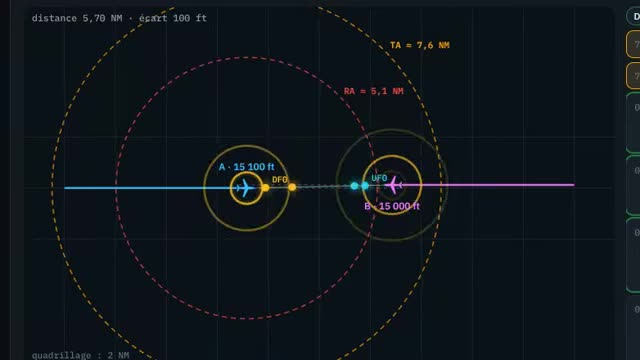
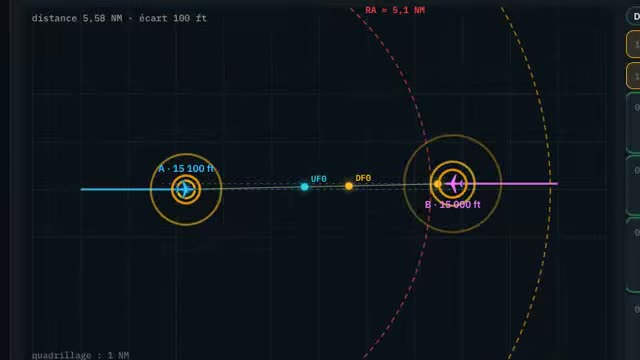
Rencontre TCAS : vitesse ×0,5, et départs rapprochés pour que la rencontre commence plus tôt
Claude-Session: https://claude.ai/code/session_01JwBhEaeajJJxZP6WL7ckMR

diff --git a/tcas-sim.js b/tcas-sim.js
@@ -32,16 +32,16 @@
   /* ---------- scénarios ---------- */
   // A : notre avion (toujours équipé TCAS II, pilote qui suit ses RA). B : l'intrus.
   const SCENARIOS = {
-    face: { nom: 'Face à face', desc: 'Deux avions en palier au FL150, sur la même route, en sens inverse.', duree: 160, sol: 0,
-      A: { x: -10, y: 0, cap: 90, vit: 300, alt: 15100, vs: 0 }, B: { x: 10, y: 0.12, cap: 270, vit: 300, alt: 15000, vs: 0 } },
-    montee: { nom: 'Croisement en montée', desc: 'B, en montée vers 13 000 ft, coupe la route de A en palier à 11 000 ft.', duree: 150, sol: 0,
-      A: { x: -8, y: 0.1, cap: 90, vit: 280, alt: 11000, vs: 0 }, B: { x: 0, y: -8, cap: 0, vit: 280, alt: 8000, vs: 1800, autorisee: 13000 } },
-    rattrapage: { nom: 'Rattrapage', desc: 'B, plus rapide, rattrape A par l’arrière, à la même altitude.', duree: 170, sol: 0,
-      A: { x: -2, y: 0, cap: 90, vit: 250, alt: 13000, vs: 0 }, B: { x: -7, y: -0.1, cap: 90, vit: 400, alt: 13050, vs: 0 } },
-    ta: { nom: 'TA seulement', desc: 'Face à face, mais 700 ft d’écart vertical : avertissement de trafic, pas de manœuvre.', duree: 160, sol: 0,
-      A: { x: -10, y: 0, cap: 90, vit: 300, alt: 15000, vs: 0 }, B: { x: 10, y: 0.3, cap: 270, vit: 300, alt: 15700, vs: 0 } },
-    approche: { nom: 'Basse altitude', desc: 'A en approche, descend vers 600 ft sol ; B traverse à 1 300 ft. Sous 1 000 ft sol (SL 2), le TCAS ne donne pas de RA : seulement un TA.', duree: 150, sol: 0,
-      A: { x: -4.5, y: 0, cap: 90, vit: 140, alt: 900, vs: -300, autorisee: 600 }, B: { x: 0.05, y: -4.5, cap: 0, vit: 140, alt: 1300, vs: 0 } },
+    face: { nom: 'Face à face', desc: 'Deux avions en palier au FL150, sur la même route, en sens inverse.', duree: 100, sol: 0,
+      A: { x: -5, y: 0, cap: 90, vit: 300, alt: 15100, vs: 0 }, B: { x: 5, y: 0.12, cap: 270, vit: 300, alt: 15000, vs: 0 } },
+    montee: { nom: 'Croisement en montée', desc: 'B, en montée vers 13 000 ft, coupe la route de A en palier à 11 000 ft.', duree: 105, sol: 0,
+      A: { x: -4.4, y: 0.1, cap: 90, vit: 280, alt: 11000, vs: 0 }, B: { x: 0, y: -4.4, cap: 0, vit: 280, alt: 9380, vs: 1800, autorisee: 13000 } },
+    rattrapage: { nom: 'Rattrapage', desc: 'B, plus rapide, rattrape A par l’arrière, à la même altitude.', duree: 120, sol: 0,
+      A: { x: -1.5, y: 0, cap: 90, vit: 250, alt: 13000, vs: 0 }, B: { x: -4.4, y: -0.1, cap: 90, vit: 400, alt: 13050, vs: 0 } },
+    ta: { nom: 'TA seulement', desc: 'Face à face, mais 700 ft d’écart vertical : avertissement de trafic, pas de manœuvre.', duree: 100, sol: 0,
+      A: { x: -5, y: 0, cap: 90, vit: 300, alt: 15000, vs: 0 }, B: { x: 5, y: 0.3, cap: 270, vit: 300, alt: 15700, vs: 0 } },
+    approche: { nom: 'Basse altitude', desc: 'A en approche, descend vers 600 ft sol ; B traverse à 1 300 ft. Sous 1 000 ft sol (SL 2), le TCAS ne donne pas de RA : seulement un TA.', duree: 85, sol: 0,
+      A: { x: -1.8, y: 0, cap: 90, vit: 140, alt: 640, vs: -300, autorisee: 600 }, B: { x: 0.05, y: -1.8, cap: 0, vit: 140, alt: 1300, vs: 0 } },
   };
 
   const ID = {

diff --git a/outils/apercus.js b/outils/apercus.js
@@ -59,7 +59,7 @@ const jeu = noms => ({
   },
 });
 const REGLAGES = {
-  'tcas.html': { avant: async pg => { await pg.click('#pp').catch(() => {}); await pg.evaluate(() => { const r = document.getElementById('temps'); r.value = 84; r.dispatchEvent(new Event('input')); document.getElementById('pp').click(); document.getElementById('carte').scrollIntoView({ block: 'center' }); }); }, attente: 300, cadre: ['#carte'], defile: 0 },
+  'tcas.html': { avant: async pg => { await pg.click('#pp').catch(() => {}); await pg.evaluate(() => { const r = document.getElementById('temps'); r.value = 24; r.dispatchEvent(new Event('input')); document.getElementById('pp').click(); document.getElementById('carte').scrollIntoView({ block: 'center' }); }); }, attente: 300, cadre: ['#carte'], defile: 0 },
   'triphase.html': { avant: async pg => pg.evaluate(() => document.getElementById('cv').scrollIntoView({ block: 'center' })), attente: 1200, cadre: ['#cv'], defile: 0 },
   'aec-avionique.html': { ...categorie, cadre: ['.tete', '.etape'] },
   'moteurs.html': categorie,'informatique.html': categorie, 'jeuxdesociete.html': categorie, 'chips.html': categorie,

diff --git a/tcas.html b/tcas.html
@@ -204,7 +204,7 @@ table.sl td:first-child{white-space:nowrap}
     <button class="btn rond" id="debut" type="button" aria-label="Recommencer">⏮</button>
     <span class="horloge" id="horloge">0,0 s</span>
     <div class="choix" id="vitesses">
-      <button class="btn" type="button" data-v="1">×1</button><button class="btn" type="button" data-v="2">×2</button>
+      <button class="btn" type="button" data-v="0.5">×0,5</button>      <button class="btn" type="button" data-v="1">×1</button><button class="btn" type="button" data-v="2">×2</button>
       <button class="btn" type="button" data-v="4" aria-pressed="true">×4</button><button class="btn" type="button" data-v="8">×8</button>
     </div>
     <button class="btn" type="button" id="son" aria-pressed="false" title="Lire les annonces du TCAS à voix haute (anglais)">🔇 Annonces</button>
@@ -400,7 +400,7 @@ function dessinerCarte(im) {
     }
   }
   // messages en vol
-  const fen = Math.min(0.9, 0.22 * vitesse + 0.15);
+  const fen = Math.min(0.9, 0.22 * vitesse + 0.12);
   for (const m of R.msgs) {
     if (m.t > t) break;
     if (t - m.t > fen * 2.4) continue;

diff --git a/docs/autres-pages.md b/docs/autres-pages.md
@@ -23,7 +23,7 @@ Pages plus simples, chacune avec son HTML, son JS et sa permission. Le schéma c
 - **ARINC 429** (`arinc429.html`, `arinc429.js`, `Manuel_Arinc_429.pdf`, `SSM_et_SDI_ARINC429.csv`) : décodeur de mots ARINC 429.
 - **Autres outils** : convertisseur (`converter`), encodeur BNR (`crypteur`), TCP/IP (`tcpip`), QR Transfert (`qr-transfer`), Shape Transfert (`shape-transfer`), simulateurs de puces (`chips`), circuit logique (`circuit`).
 - **Rencontre TCAS** (`tcas.html`, moteur `tcas-sim.js`, permission `tcas`, groupe « Avionique » d'Informatique ; 7 novembre 2026, demande de l'utilisateur : rencontre animée de deux avions et messages échangés, d'après le sous-module 4.2 « Fonctionnement détaillé » du cours Systèmes avioniques à impulsions de la Documentation AEC Avionique, collé par l'utilisateur dans la conversation).
-  - `tcas-sim.js` calcule toute la rencontre d'avance (pas de 0,1 s) : positions, vitesses verticales, états TCAS (clair, TA, RA), pilotes (A suit toujours ses RA ; B les suit ou « manœuvre dans le mauvais sens »), et la liste des messages : détection (squitters DF11 et DF17, ou appel Intermode « ATCRBS seulement » en whisper-shout, 14 NM), surveillance (UF0 → DF0 chaque seconde, TCAS Broadcast UF16 UDS 3.2 aux 10 s), coordination pendant un RA (UF16 UDS 3.0 → DF16 chaque seconde, VRC « ne monte pas / ne descends pas » ; RA Broadcast UF16 UDS 3.1 aux 8 s, RAT = 1 à la fin). La page rejoue (lecture, ×1 à ×8, ligne de temps avec repères TA/RA/CoC).
+  - `tcas-sim.js` calcule toute la rencontre d'avance (pas de 0,1 s) : positions, vitesses verticales, états TCAS (clair, TA, RA), pilotes (A suit toujours ses RA ; B les suit ou « manœuvre dans le mauvais sens »), et la liste des messages : détection (squitters DF11 et DF17, ou appel Intermode « ATCRBS seulement » en whisper-shout, 14 NM), surveillance (UF0 → DF0 chaque seconde, TCAS Broadcast UF16 UDS 3.2 aux 10 s), coordination pendant un RA (UF16 UDS 3.0 → DF16 chaque seconde, VRC « ne monte pas / ne descends pas » ; RA Broadcast UF16 UDS 3.1 aux 8 s, RAT = 1 à la fin). La page rejoue (lecture, ×0,5 à ×8, ligne de temps avec repères TA/RA/CoC). Départs rapprochés (demande de l'utilisateur : moins d'attente avec seulement des squitters) : premier TA vers 11 à 26 s, rencontres de 85 à 120 s.
   - Logique (TCAS II v7.1) : niveaux de sensibilité SL 2 à 7 (table des seuils TAU, DMOD, ZTHR, ALIM dans `SL`), TAU modifié avec DMOD, TAU vertical, ALIM sur l'écart prévu au croisement ; sens du RA non croisant si possible, sinon le plus séparateur ; RA préventif (« MONITOR VERTICAL SPEED ») si la séparation est déjà assurée ; sens imposé par la coordination reçue ; inversion (« … NOW », 2 500 ft/min, 2,5 s) si l'intrus manœuvre dans le même sens ou si la coordination impose l'autre sens ; CLEAR OF CONFLICT quand les avions s'éloignent ; pas de RA sous 1 000 ft sol, pas d'annonce sous 500 ft sol.
   - Scénarios : face à face, croisement en montée, rattrapage, TA seulement (700 ft), basse altitude (SL 2). Options : équipement de B (Mode S + TCAS, Mode S sans TCAS, ATCRBS), pilote de B. Contrôleurs ATC/TCAS de A et de B : mode (STBY, ATC ON, TA ONLY, TA/RA : recalcule la rencontre), couverture BLW/NML/ABV, altitude REL/ABS, RANGE (affichage).
   - Affichage : vue de dessus (messages qui voyagent, 1030 MHz cyan, 1090 MHz ambre, diffusions en cercles ; zones TA et RA selon TAU), journal des messages par phase (répétitions regroupées), deux cockpits (écran de trafic : symboles ◇ ◆ ● ■, altitude relative +07↑, annonce EFIS TCAS / TA ONLY / TCAS OFF ; VSI avec arcs vert et rouge du RA ; annonce sonore, lue à voix haute en option), calculs du TCAS de A ou de B (jauges TAU et écart vertical, table SL), vue de côté.
